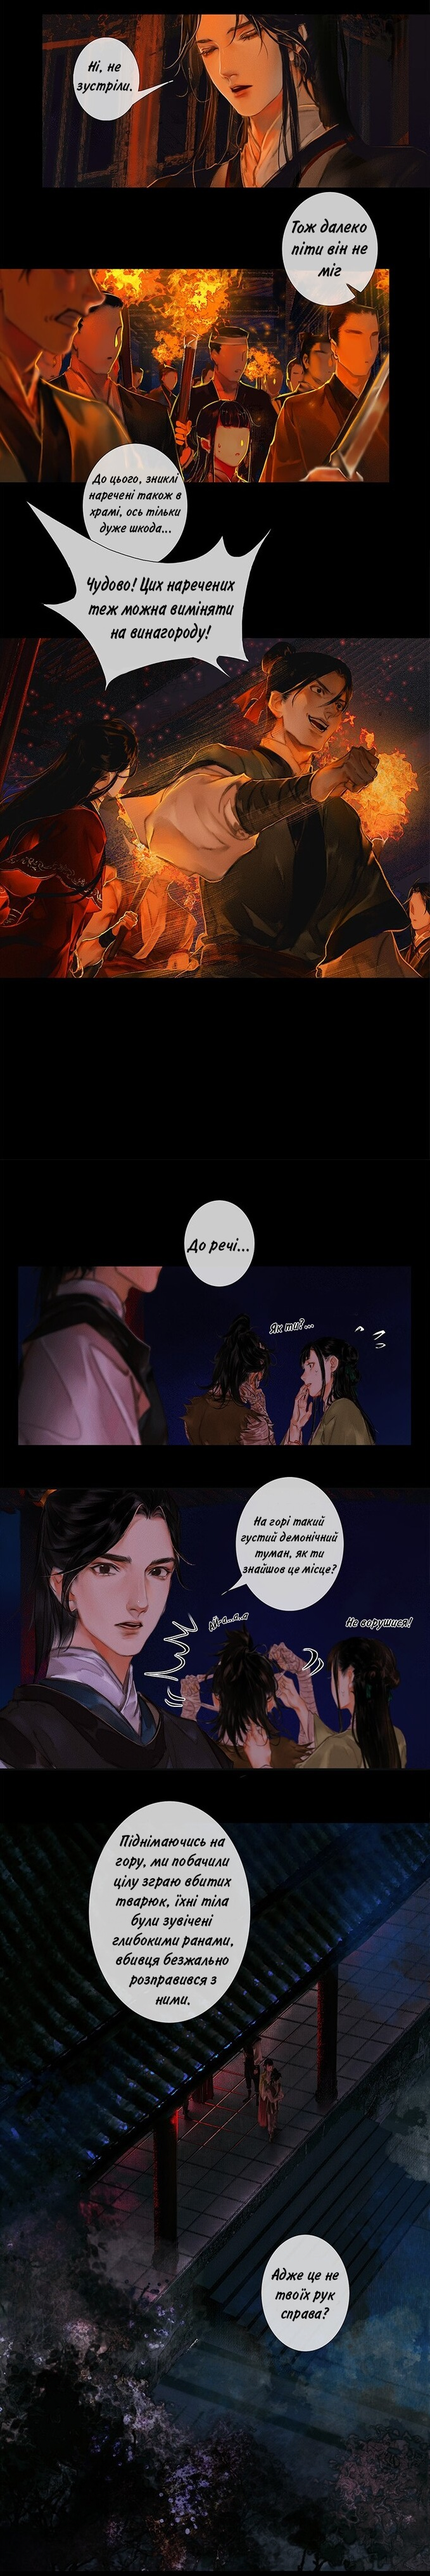
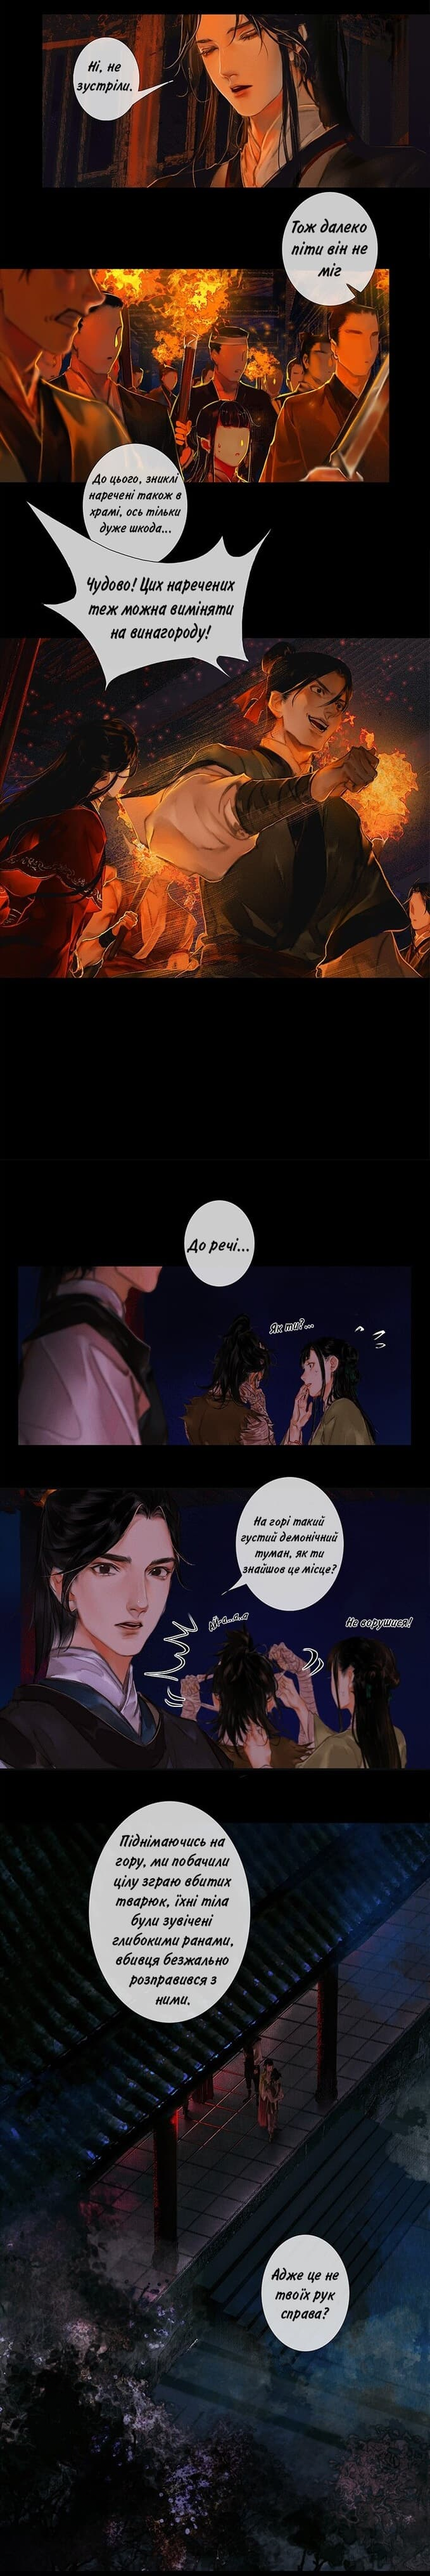
optimize images

diff --git a/src/utils/chapters.js b/src/utils/chapters.js
@@ -1,57 +1,57 @@
 import chapter0img1 from "../img/intro/1.jpg";
 
-import chapter1img1 from "../img/chapter1/1.png";
-import chapter1img2 from "../img/chapter1/2.png";
-import chapter1img3 from "../img/chapter1/3.png";
+import chapter1img1 from "../img/chapter1/1.jpg";
+import chapter1img2 from "../img/chapter1/2.jpg";
+import chapter1img3 from "../img/chapter1/3.jpg";
 import chapter1img4 from "../img/chapter1/4.jpg";
-import chapter1img5 from "../img/chapter1/5.png";
+import chapter1img5 from "../img/chapter1/5.jpg";
 
-import chapter1_1img1 from "../img/chapter1.1/1.png";
+import chapter1_1img1 from "../img/chapter1.1/1.jpg";
 import chapter1_1img2 from "../img/chapter1.1/2.jpg";
 import chapter1_1img3 from "../img/chapter1.1/3.jpg";
 
-import chapter1_2img1 from "../img/chapter1.2/1.png";
-import chapter1_2img2 from "../img/chapter1.2/2.png";
-import chapter1_2img3 from "../img/chapter1.2/3.png";
-import chapter1_2img4 from "../img/chapter1.2/4.png";
-import chapter1_2img5 from "../img/chapter1.2/5.png";
-import chapter1_2img6 from "../img/chapter1.2/6.png";
-import chapter1_2img7 from "../img/chapter1.2/7.png";
-import chapter1_2img8 from "../img/chapter1.2/8.png";
-import chapter1_2img9 from "../img/chapter1.2/9.png";
-import chapter1_2img10 from "../img/chapter1.2/10.png";
+import chapter1_2img1 from "../img/chapter1.2/1.jpg";
+import chapter1_2img2 from "../img/chapter1.2/2.jpg";
+import chapter1_2img3 from "../img/chapter1.2/3.jpg";
+import chapter1_2img4 from "../img/chapter1.2/4.jpg";
+import chapter1_2img5 from "../img/chapter1.2/5.jpg";
+import chapter1_2img6 from "../img/chapter1.2/6.jpg";
+import chapter1_2img7 from "../img/chapter1.2/7.jpg";
+import chapter1_2img8 from "../img/chapter1.2/8.jpg";
+import chapter1_2img9 from "../img/chapter1.2/9.jpg";
+import chapter1_2img10 from "../img/chapter1.2/10.jpg";
 
-import chapter1_3img1 from "../img/chapter1.3/1.png";
-import chapter1_3img2 from "../img/chapter1.3/2.png";
-import chapter1_3img3 from "../img/chapter1.3/3.png";
-import chapter1_3img4 from "../img/chapter1.3/4.png";
-import chapter1_3img5 from "../img/chapter1.3/5.png";
-import chapter1_3img6 from "../img/chapter1.3/6.png";
-import chapter1_3img7 from "../img/chapter1.3/7.png";
+import chapter1_3img1 from "../img/chapter1.3/1.jpg";
+import chapter1_3img2 from "../img/chapter1.3/2.jpg";
+import chapter1_3img3 from "../img/chapter1.3/3.jpg";
+import chapter1_3img4 from "../img/chapter1.3/4.jpg";
+import chapter1_3img5 from "../img/chapter1.3/5.jpg";
+import chapter1_3img6 from "../img/chapter1.3/6.jpg";
+import chapter1_3img7 from "../img/chapter1.3/7.jpg";
 import chapter1_3img8 from "../img/chapter1.3/8.jpg";
 
-import chapter1_4img1 from "../img/chapter1.4/1.png";
-import chapter1_4img2 from "../img/chapter1.4/2.png";
-import chapter1_4img3 from "../img/chapter1.4/3.png";
-import chapter1_4img4 from "../img/chapter1.4/4.png";
-import chapter1_4img5 from "../img/chapter1.4/5.png";
-import chapter1_4img6 from "../img/chapter1.4/6.png";
+import chapter1_4img1 from "../img/chapter1.4/1.jpg";
+import chapter1_4img2 from "../img/chapter1.4/2.jpg";
+import chapter1_4img3 from "../img/chapter1.4/3.jpg";
+import chapter1_4img4 from "../img/chapter1.4/4.jpg";
+import chapter1_4img5 from "../img/chapter1.4/5.jpg";
+import chapter1_4img6 from "../img/chapter1.4/6.jpg";
 
-import chapter1_5img1 from "../img/chapter1.5/1.png";
-import chapter1_5img2 from "../img/chapter1.5/2.png";
+import chapter1_5img1 from "../img/chapter1.5/1.jpg";
+import chapter1_5img2 from "../img/chapter1.5/2.jpg";
 import chapter1_5img3 from "../img/chapter1.5/3.jpg";
-import chapter1_5img4 from "../img/chapter1.5/4.png";
-import chapter1_5img5 from "../img/chapter1.5/5.png";
+import chapter1_5img4 from "../img/chapter1.5/4.jpg";
+import chapter1_5img5 from "../img/chapter1.5/5.jpg";
 
-import chapter1_6img1 from "../img/chapter1.6/1.png";
+import chapter1_6img1 from "../img/chapter1.6/1.jpg";
 import chapter1_6img2 from "../img/chapter1.6/2.jpg";
-import chapter1_6img3 from "../img/chapter1.6/3.png";
-import chapter1_6img4 from "../img/chapter1.6/4.png";
-import chapter1_6img5 from "../img/chapter1.6/5.png";
-import chapter1_6img6 from "../img/chapter1.6/6.png";
-import chapter1_6img7 from "../img/chapter1.6/7.png";
-import chapter1_6img8 from "../img/chapter1.6/8.png";
-import chapter1_6img9 from "../img/chapter1.6/9.png";
+import chapter1_6img3 from "../img/chapter1.6/3.jpg";
+import chapter1_6img4 from "../img/chapter1.6/4.jpg";
+import chapter1_6img5 from "../img/chapter1.6/5.jpg";
+import chapter1_6img6 from "../img/chapter1.6/6.jpg";
+import chapter1_6img7 from "../img/chapter1.6/7.jpg";
+import chapter1_6img8 from "../img/chapter1.6/8.jpg";
+import chapter1_6img9 from "../img/chapter1.6/9.jpg";
 
 export const chapters = {
   Вступ: [chapter0img1],
